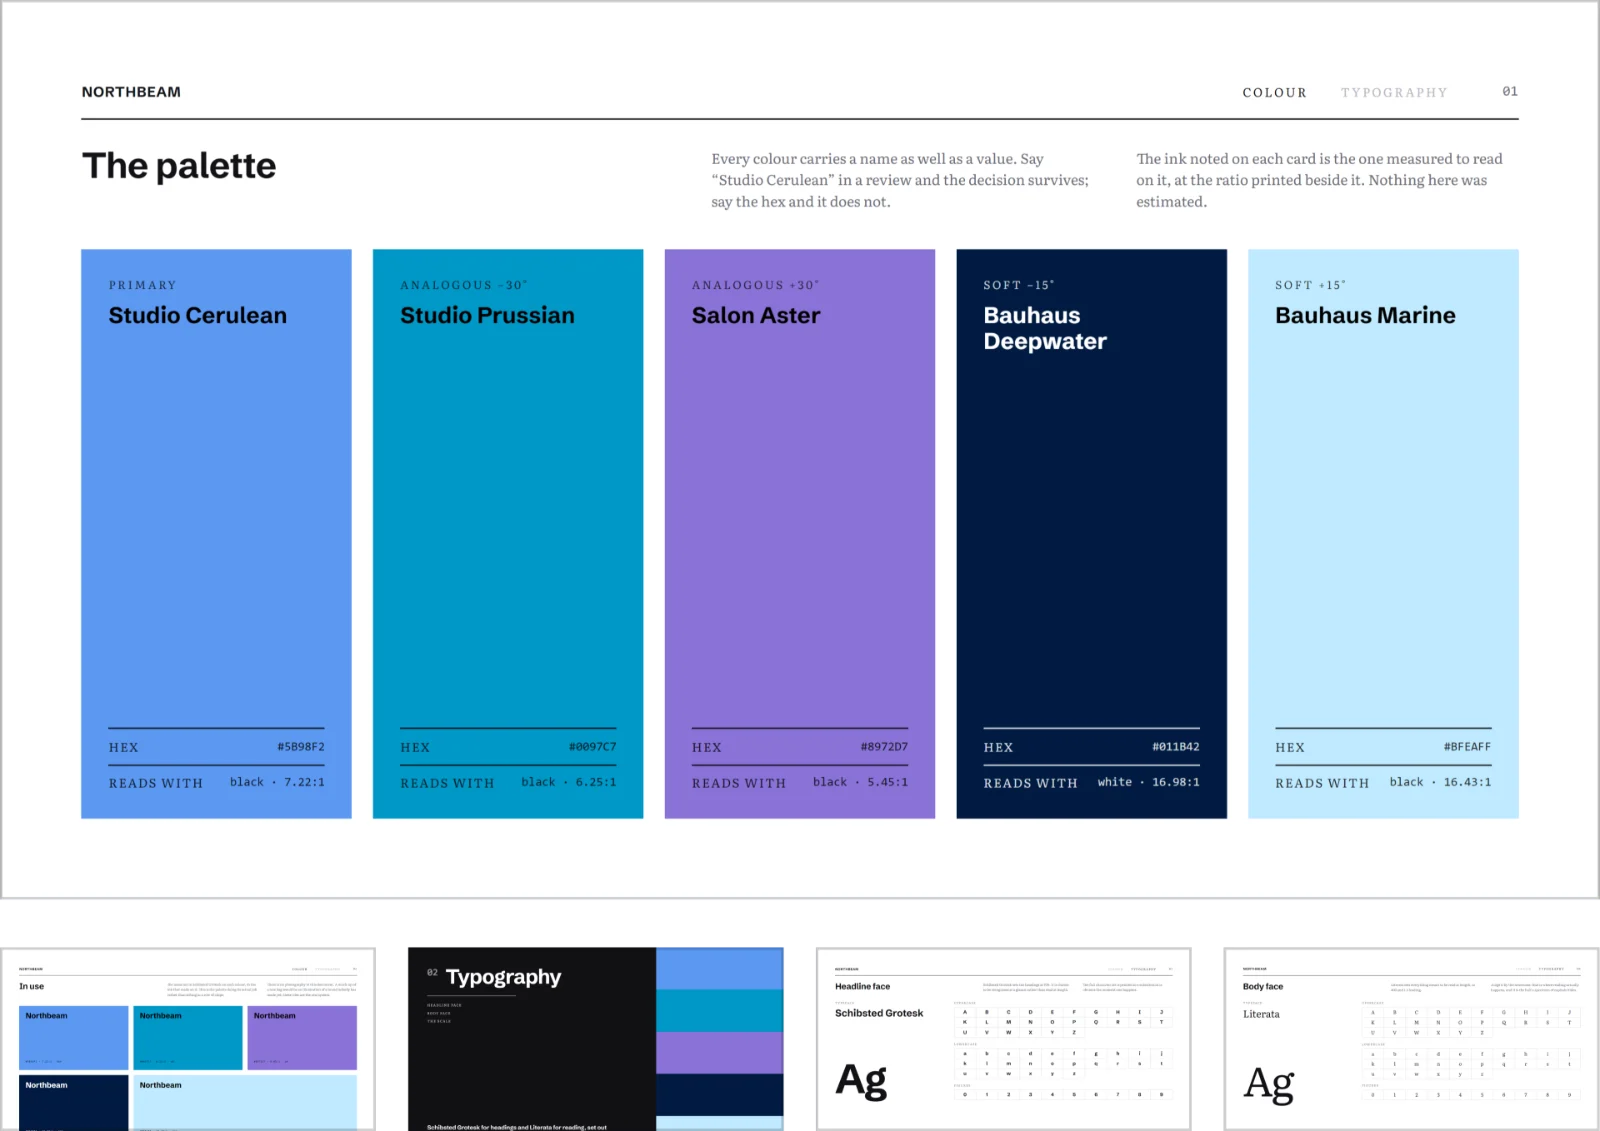
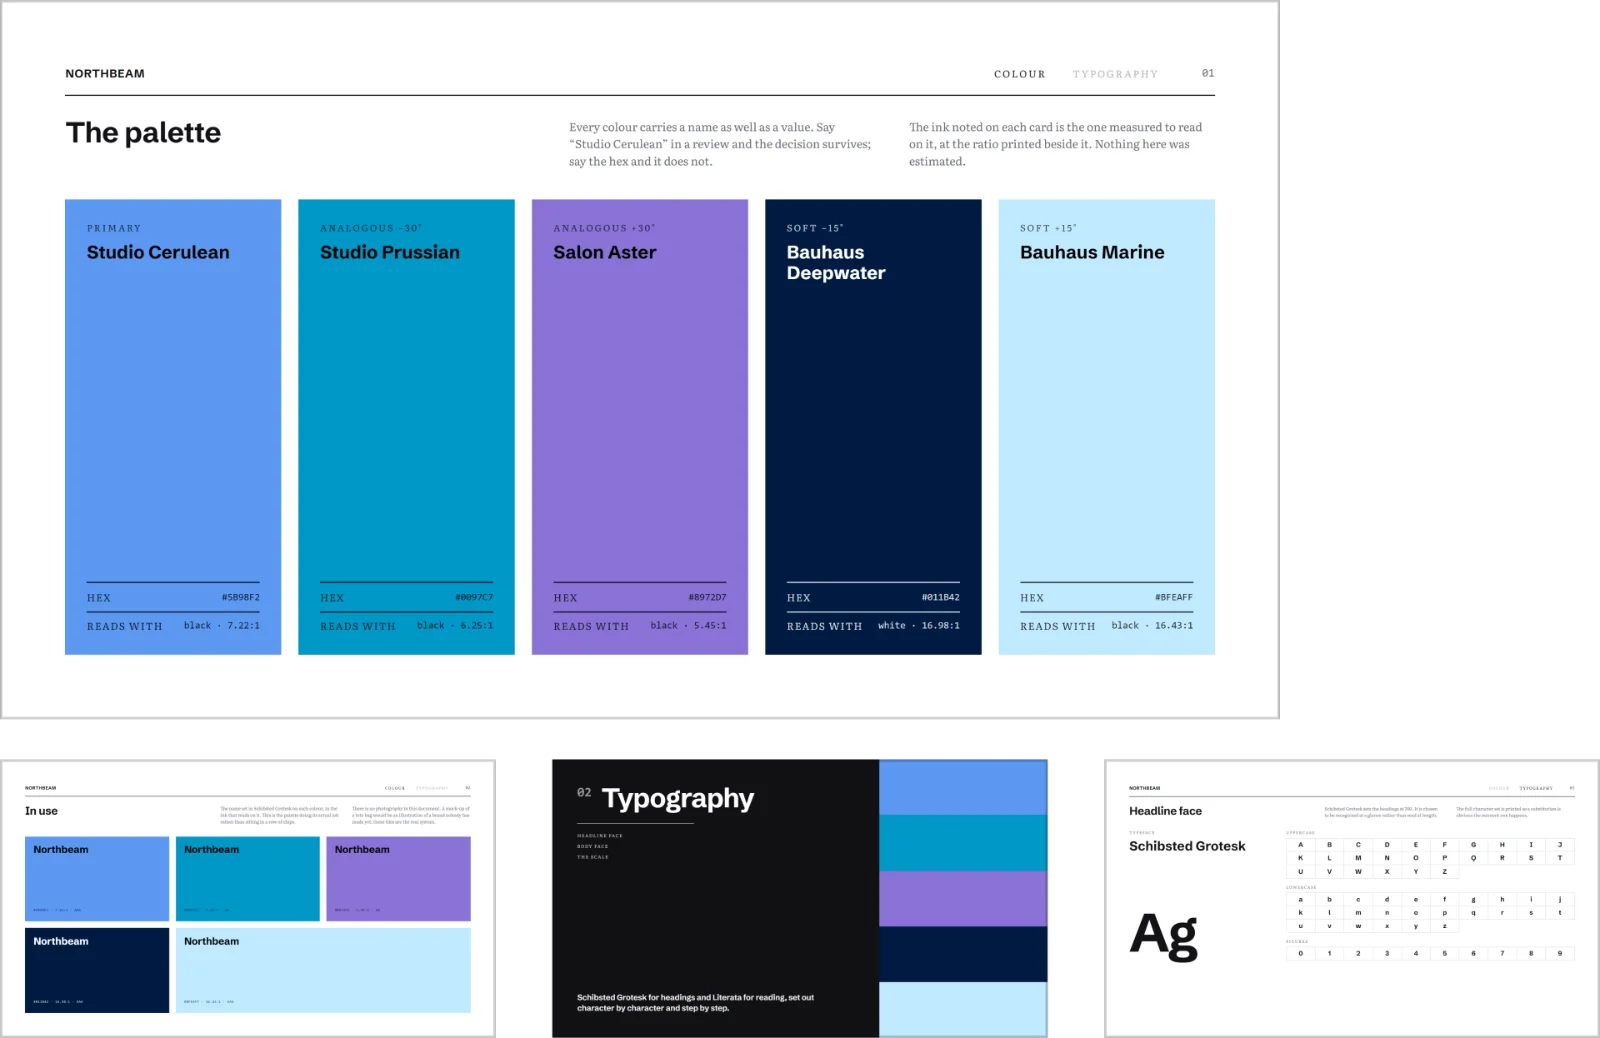
Exports: the deck plate is the palette slide at 80% over three whole 16:9 slides (In use, Typography, Headline face), no crop
Plate aspect is now about 1.54 (was 1.4142). The palette title is 10.8px at the narrowest display: waived by name, measured.

diff --git a/src/data/homeExports.generated.js b/src/data/homeExports.generated.js
@@ -19,7 +19,7 @@
 //     alt,           the image's alt text
 //     sourceSha256,  sha256 of the export HTML the image was rendered from
 //     landscape,     Variant for screens 761px and wider; a cover's is the cover beside its contents page, facing
-//                    (not drawn now); the deck's is guide-overview: the palette slide over a strip of the next four
+//                    (not drawn now); the deck's is guide-overview: the palette slide over three more whole
 //     portrait,      Variant for screens 760px and narrower; for a cover this is the A4 cover on its own
 //   }
 //   Variant = {
@@ -54,7 +54,7 @@ export const HOME_EXPORTS = {
       "weight": 400
     }
   },
-  "totalBytes": 1225312,
+  "totalBytes": 1204278,
   "counts": {
     "bookPages": 12,
     "deckSlides": 9
@@ -141,39 +141,39 @@ export const HOME_EXPORTS = {
       "kind": "plate",
       "tab": "Brand deck",
       "tabName": "Brand guidelines deck, Pro",
-      "alt": "Brand guidelines deck, the palette page with five named colours, and the pages that follow it.",
+      "alt": "Brand guidelines deck, the palette slide with five named colours, over three more slides: In use, Typography and Headline face.",
[1 lines of base64/hex data omitted]
       "landscape": {
         "master": {
           "w": 3840,
-          "h": 2715
+          "h": 2492
         },
-        "aspect": 1.4142,
+        "aspect": 1.5409,
         "src": "/home-exports/guide-overview-1600.webp",
         "width": 1600,
-        "height": 1131,
+        "height": 1038,
         "srcset": "/home-exports/guide-overview-800.webp 800w, /home-exports/guide-overview-1600.webp 1600w, /home-exports/guide-overview-2400.webp 2400w",
         "files": [
           {
             "file": "guide-overview-800.webp",
             "w": 800,
-            "h": 566,
-            "bytes": 20510,
[1 lines of base64/hex data omitted]
+            "h": 519,
+            "bytes": 17304,
[1 lines of base64/hex data omitted]
           },
           {
             "file": "guide-overview-1600.webp",
             "w": 1600,
-            "h": 1131,
-            "bytes": 52772,
[1 lines of base64/hex data omitted]
+            "h": 1038,
+            "bytes": 46784,
[1 lines of base64/hex data omitted]
           },
           {
             "file": "guide-overview-2400.webp",
             "w": 2400,
-            "h": 1697,
-            "bytes": 94534,
[1 lines of base64/hex data omitted]
+            "h": 1558,
+            "bytes": 82694,
[1 lines of base64/hex data omitted]
           }
         ]
       },
